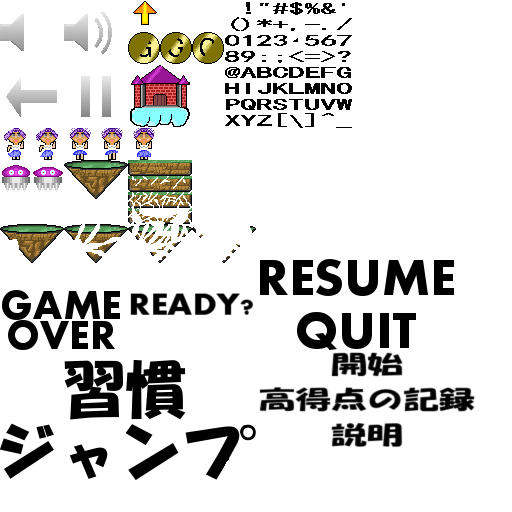
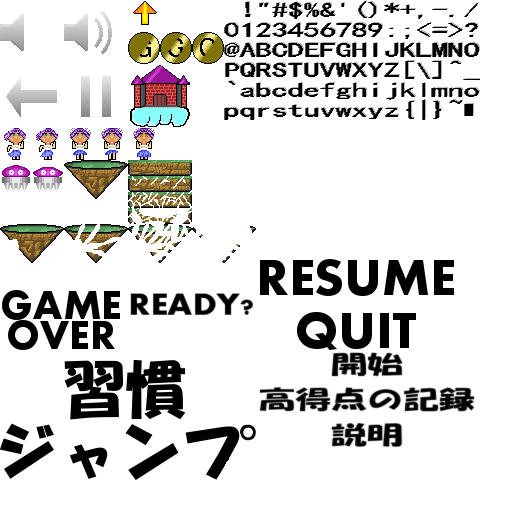
素材修正・UMAでジャンプ実�
・フォントとCastelのドットを修正
・フォントはもう少しどうにかするか、ストーリー系やる場合はそれ用に用意する
・落下中にUMAに触れた場合はジャンプするようにした（頭でジャンプできる）

Changed region(s): [[0.4375, 0.0, 0.9375, 0.25], [0.25, 0.1562, 0.375, 0.2188]]

diff --git a/src/com/zukirou/habitofjump/World.java b/src/com/zukirou/habitofjump/World.java
@@ -16,7 +16,7 @@ public class World {
 	}
 	
 	public static final float WORLD_WIDTH = 10;
-	public static final float WORLD_HEIGHT = 15 * 20;
+	public static final float WORLD_HEIGHT = 15 * 5;
 	public static final int WORLD_STATE_RUNNING = 0;
 	public static final int WORLD_STATE_NEXT_LEVEL = 1;
 	public static final int WORLD_STATE_GAME_OVER = 2;
@@ -161,8 +161,13 @@ public class World {
 		for(int i = 0; i < len; i++){
 			Uma uma = umas.get(i);
 			if(OverlapTester.overlapRectangles(uma.bounds, pc.bounds)){
-				pc.hitUma();
-				listener.hit();
+				if(pc.state == pc.PC_STATE_FALL){
+					pc.hitPlatform();
+					listener.jump();
+				}else{
+					pc.hitUma();
+					listener.hit();					
+				}
 			}
 		}
 	}

diff --git a/src/com/zukirou/habitofjump/GameScreen.java b/src/com/zukirou/habitofjump/GameScreen.java
@@ -130,7 +130,7 @@ public class GameScreen extends GLScreen{
 		world.update(deltaTime, game.getInput().getAccelX());
 		if(world.score != lastScore){
 			lastScore = world.score;
-			scoreString = "" + lastScore;
+			scoreString = "score:" + lastScore;
 		}
 		if(world.state == World.WORLD_STATE_NEXT_LEVEL){
 			state = GAME_LEVEL_END;

diff --git a/src/com/zukirou/habitofjump/Assets.java b/src/com/zukirou/habitofjump/Assets.java
@@ -78,7 +78,7 @@ public class Assets{
 												new TextureRegion(items, 128, 224, 64, 64),
 												new TextureRegion(items, 196, 224, 64, 64));
 		
-		font = new Font(items, 224, 0, 8, 16, 16);
+		font = new Font(items, 224, 0, 16, 16, 20);
 		
 		music = game.getAudio().newMusic("bgmDrum.ogg");
 		music.setLooping(true);
